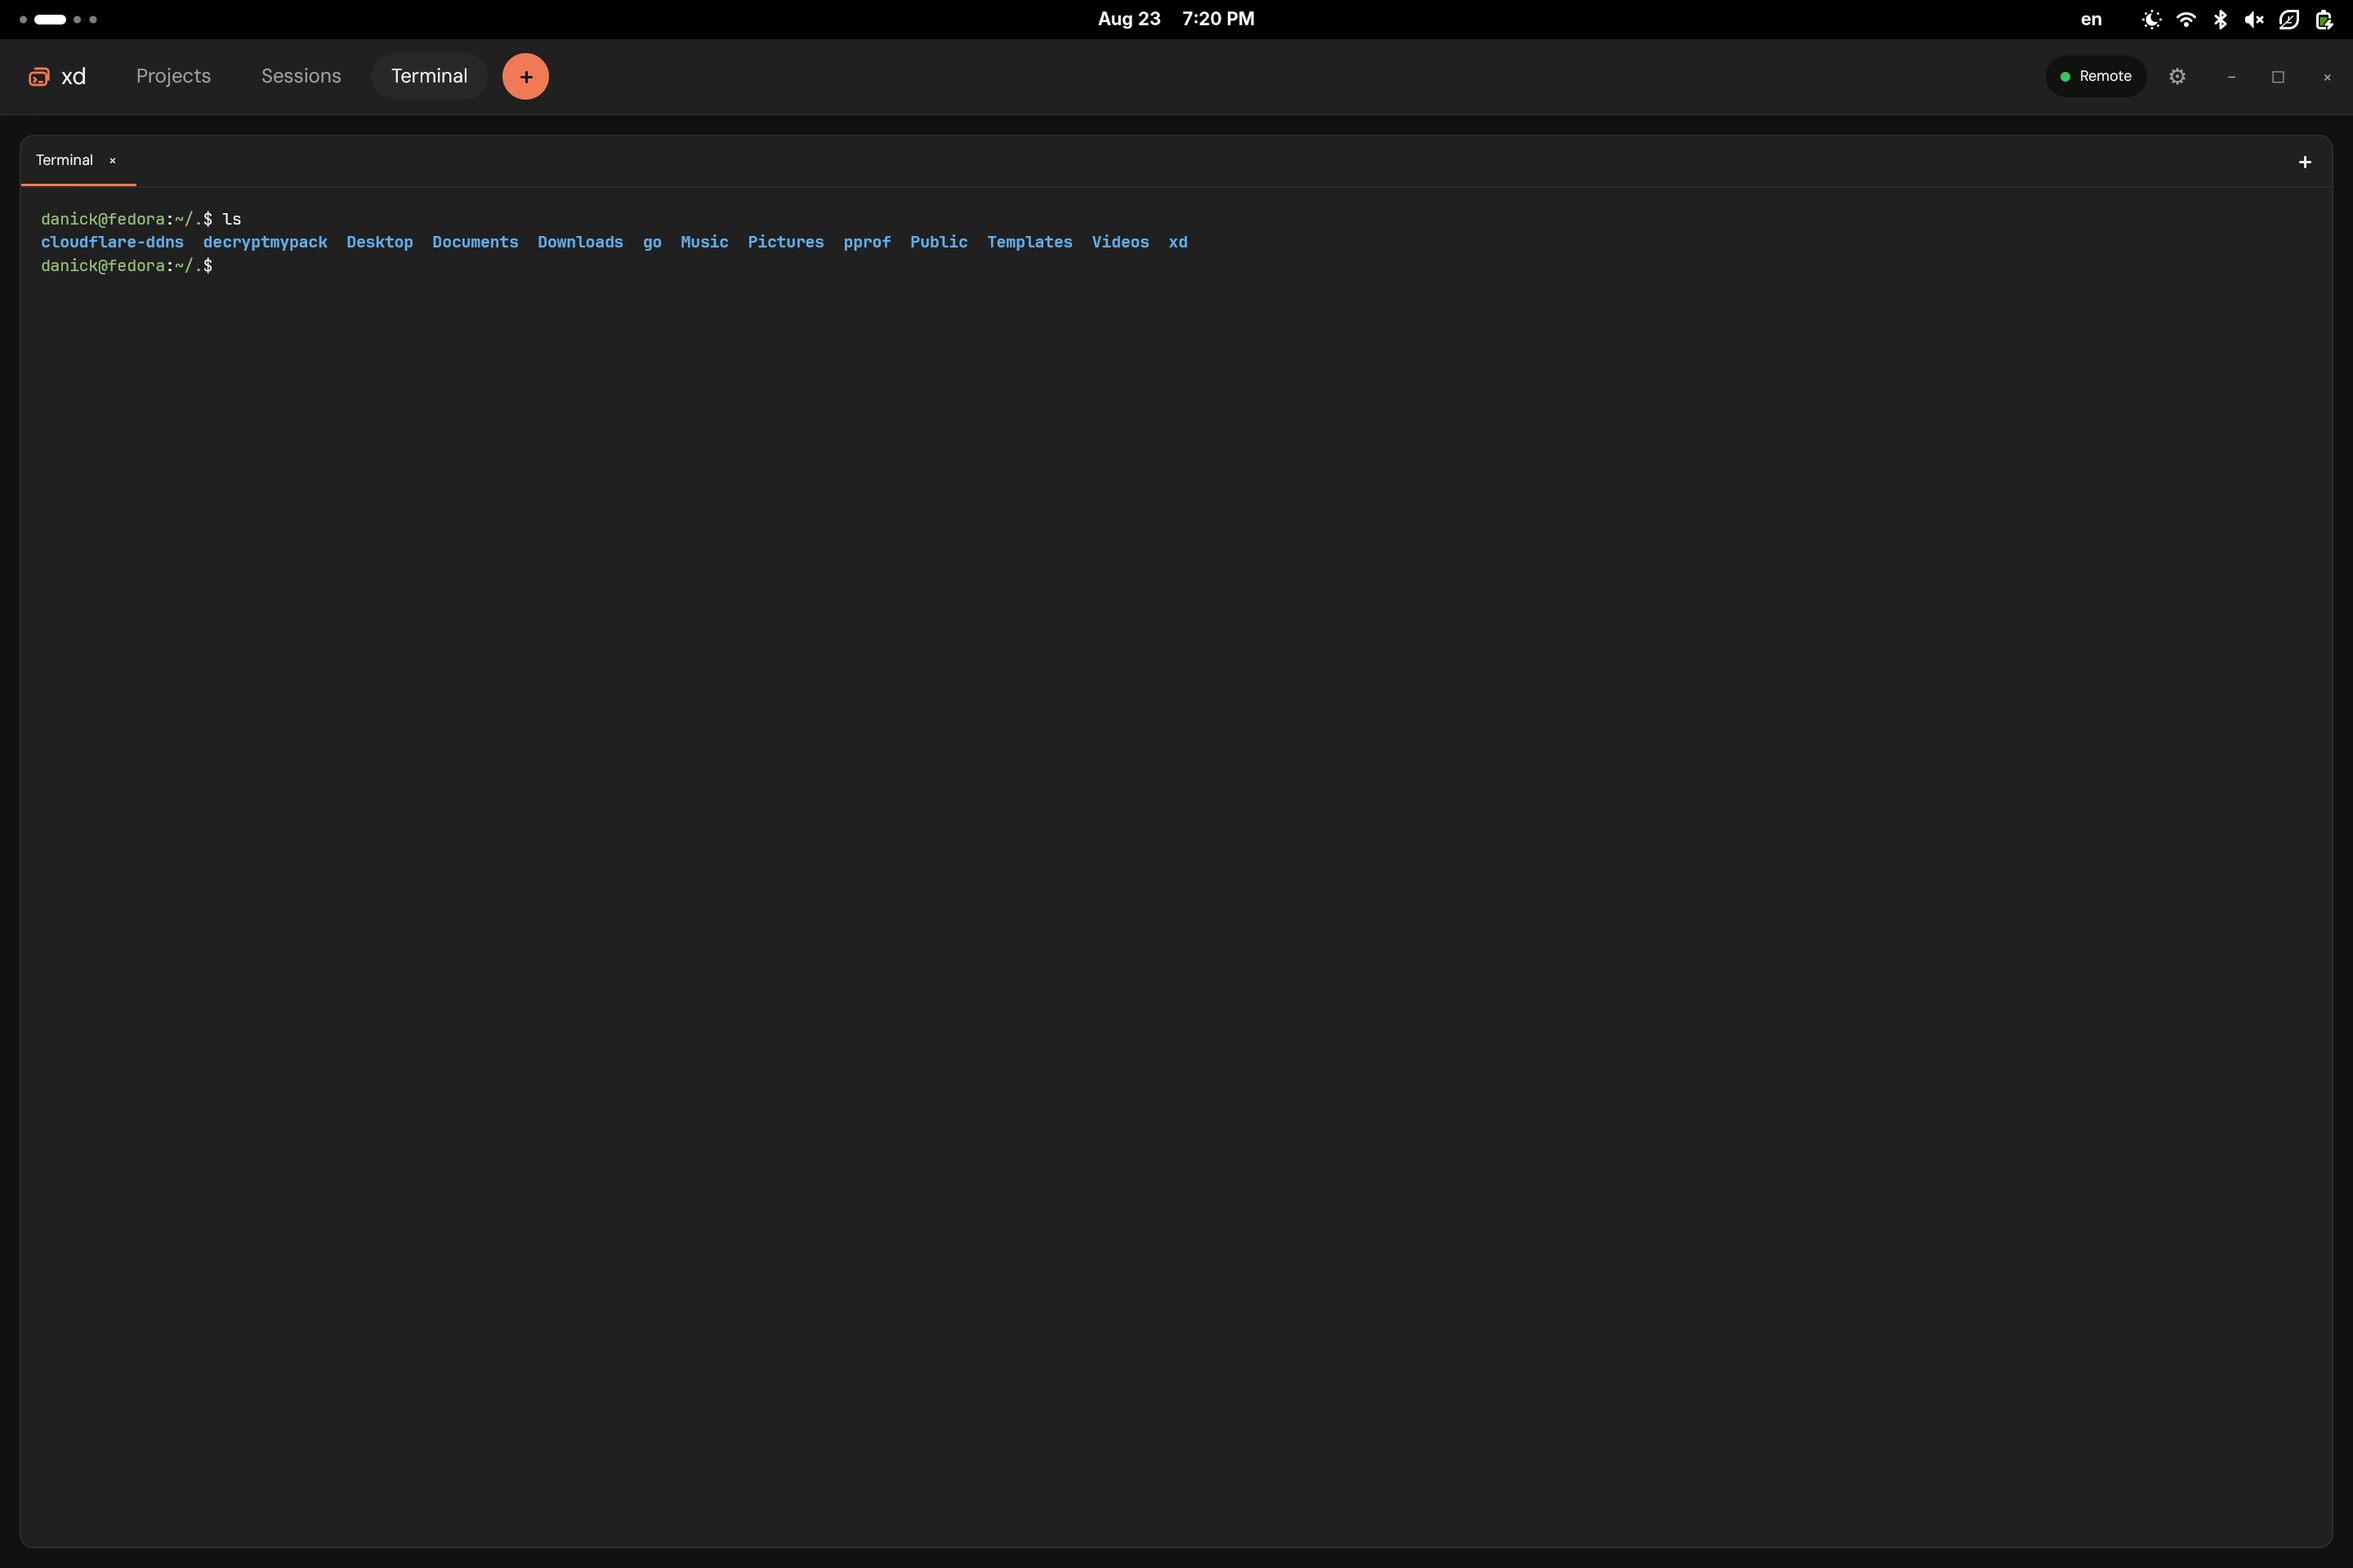
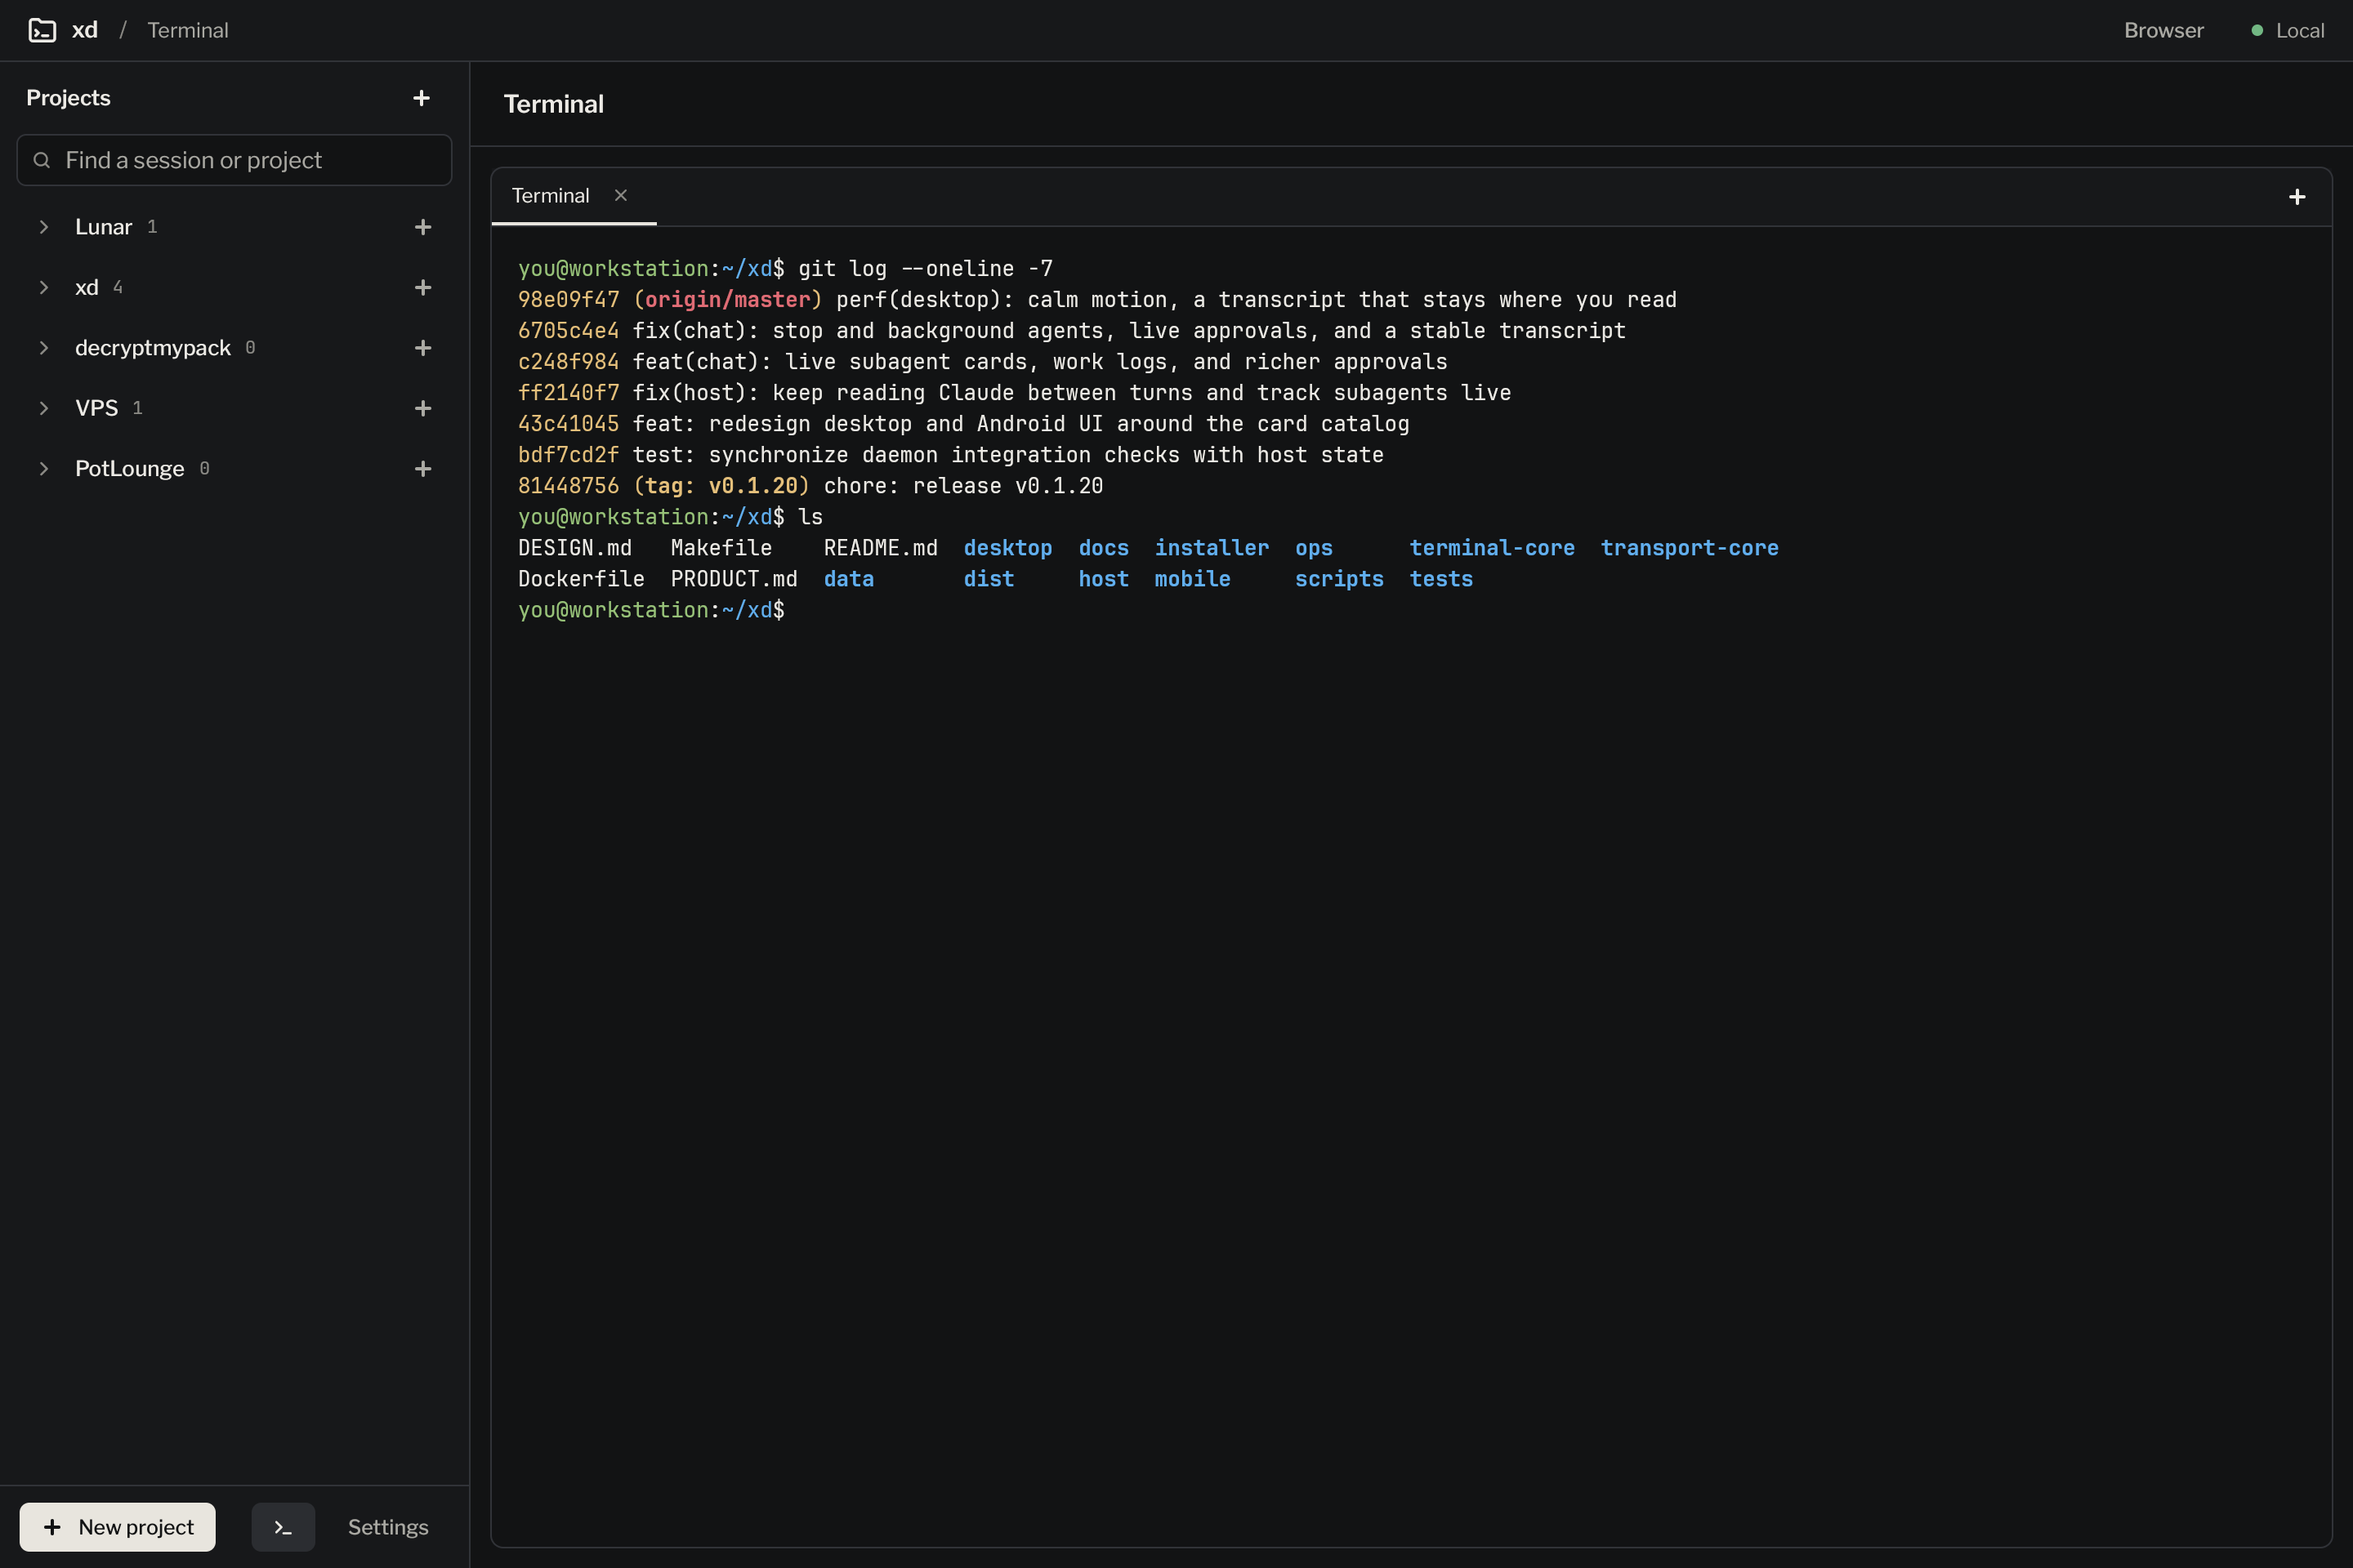
docs: refresh README screenshots and document subagent records
The README showed the pre-redesign UI. Replace its three screenshots with
the current desktop (live agent cards, the light project page, the
terminal) and list subagent cards, inline approvals, and themes among the
highlights.

The protocol reference now covers the `subagent` operation, the
`subagent_run` record format, the `record` event, the record members on
`tool` events and live snapshots, and Claude Code approvals in `respond`.

diff --git a/docs/protocol.md b/docs/protocol.md
@@ -178,7 +178,8 @@ When a turn is live the reply also carries its snapshot:
 - `turn_epoch`: string identifying the current daemon runtime
 - `turn_id`, `turn_sequence`: integers — the turn watermark
 - `working_for`: elapsed seconds
-- `items`: ordered array of `{"tool":bool,"text":string}`
+- `items`: ordered array of `{"tool":bool,"text":string}`; record rows also
+  carry `record` and `message_id`, and hold the record's newest text
 - `segment`: unfinished assistant text
 
 A client renders each non-tool item as finished assistant text, each tool item
@@ -400,7 +401,7 @@ command is slow.
 {"op":"respond","chat":"chat-1","request_id":"opaque-id","response":{"answers":{"question-id":{"answers":["Keep it"]}}}}
 ```
 
-Responds to a pending Codex app-server approval or question. Approval decisions
+Responds to a pending Codex app-server or Claude Code approval or question. Approval decisions
 are `accept`, `acceptForSession`, `decline`, or `cancel`. Permission decisions
 grant only the permissions requested by the backend. Question responses must
 answer every question in the request. Stale, already answered, or foreign-chat
@@ -410,6 +411,42 @@ IDs are refused. Cancellation clears pending requests.
 interaction_epoch}`. `interaction-resolved` removes one ID; `interactions-cleared`
 removes all prompts for the chat. Both carry the revision and epoch. Pending
 requests survive client disconnects and are available from `chat` snapshots.
+
+### `subagent`
+
+```json
+{"op":"subagent","chat":"chat-1","key":"toolu_01","action":"stop"}
+{"op":"subagent","chat":"chat-1","key":"toolu_01","action":"background"}
+```
+
+Controls a running Claude Code subagent. `key` is the `key` from its
+`subagent_run` record. `stop` ends the agent; `background` lets the turn carry
+on without waiting for it. The host refuses agents that have finished, that
+are not Claude's, or that Claude has not reported a task for yet. A control
+operation: answered even while a serialized command is slow. The agent's
+record reports the outcome.
+
+### Subagent records
+
+Each delegated agent is one `tool` message whose content is `subagent_run\n`
+followed by a JSON object. The host rewrites that message in place as the
+agent works rather than appending new rows, so a stored transcript holds only
+the newest snapshot.
+
+```json
+{"key":"toolu_01","provider":"Claude","agent":"Explore","model":"claude-haiku-5-5",
+ "description":"Map the parser","prompt":"…","status":"running","background":false,
+ "activity":"Reading runtime.rs","steps":[{"tool":"Read","text":"host/src/runtime.rs"}],
+ "tool_uses":3,"tokens":9100,"duration_ms":23000,"started_at":1753700000000,
+ "latest":"…","summary":"…"}
+```
+
+`status` is `running`, `completed`, `failed`, or `stopped`. `steps` keeps the
+newest 40 tool calls; `tool_uses` counts all of them. `started_at` is Unix
+milliseconds, for a live elapsed time. `latest` is the agent's newest message
+and `summary` its final report. `model`, `prompt`, `activity`, `latest`,
+`summary`, `tokens`, `duration_ms`, and `started_at` are absent until known;
+ignore unknown members.
 
 ### `set-option`
 
@@ -513,7 +550,8 @@ Chat-scoped events carry a `chat` member; ignore those for other chats.
 | `commands` | `chat`, `backend`, `commands` | Slash-command list for a backend. |
 | `turn-started` | `chat`, `label`, `turn_id`, `turn_sequence` | A turn began. |
 | `text` | `chat`, `text`, `turn_id`, `turn_sequence` | Assistant text delta. |
-| `tool` | `chat`, `text`, `workdir`, `context`, `turn_id`, `turn_sequence` | Tool row. |
+| `tool` | `chat`, `text`, `workdir`, `context`, `turn_id`, `turn_sequence`, optional `record`, `message_id` | Tool row. `record` marks a row the host will rewrite; `message_id` is its stored id. |
+| `record` | `chat`, `text`, `record`, `message_id`, optional `turn_id`, `turn_sequence` | A record row was rewritten, such as a subagent's progress; replace the row with that `message_id`. Arrives without turn members when a background agent reports while no turn is running. |
 | `turn-finished` | `chat`, `turn_id`, `turn_sequence`, `ok`, `waiting`, `silent`, `duration`, `last_message_id`, optional `error`, `question`, `options`, `accepts_input` | The turn ended. |
 | `repository-changed` | `chat` | HEAD moved outside the app. |
 | `git-state`, `git-action-finished`, `git-draft-finished` | `chat`, … | Git pane state. |

diff --git a/README.md b/README.md
@@ -15,11 +15,14 @@ A local-first desktop workspace for user-installed Codex, Claude Code, JCode, an
 ## Highlights
 
 - Native chat for Codex, Claude Code, and JCode, with streamed replies, activity cards, queues, and optional shell panes.
+- Live subagent cards: each delegated agent shows its model, current step, tools, tokens, and elapsed time, and keeps its task, steps, and report once it finishes. Claude agents can be stopped or sent to the background from the card.
+- Tool approvals and questions inline in the chat, with the command or diff they would apply, on desktop and Android.
 - One persistent daemon owns local and remote sessions; work continues when clients disconnect.
 - Direct remote connections over pinned TLS, with expiring pairing codes and revocable devices.
 - Projects, Git worktrees, branches, and pull requests in one workspace.
 - An integrated browser with separate tabs for each chat and shared site data.
 - Uses your installed CLI tools, authentication, and configuration.
+- Dark and light themes, chosen in Settings.
 
 Each chat remembers its browser tabs and whether the pane is open. Use the
 Browser button to show it, then `+` in its tab bar to open another tab.
